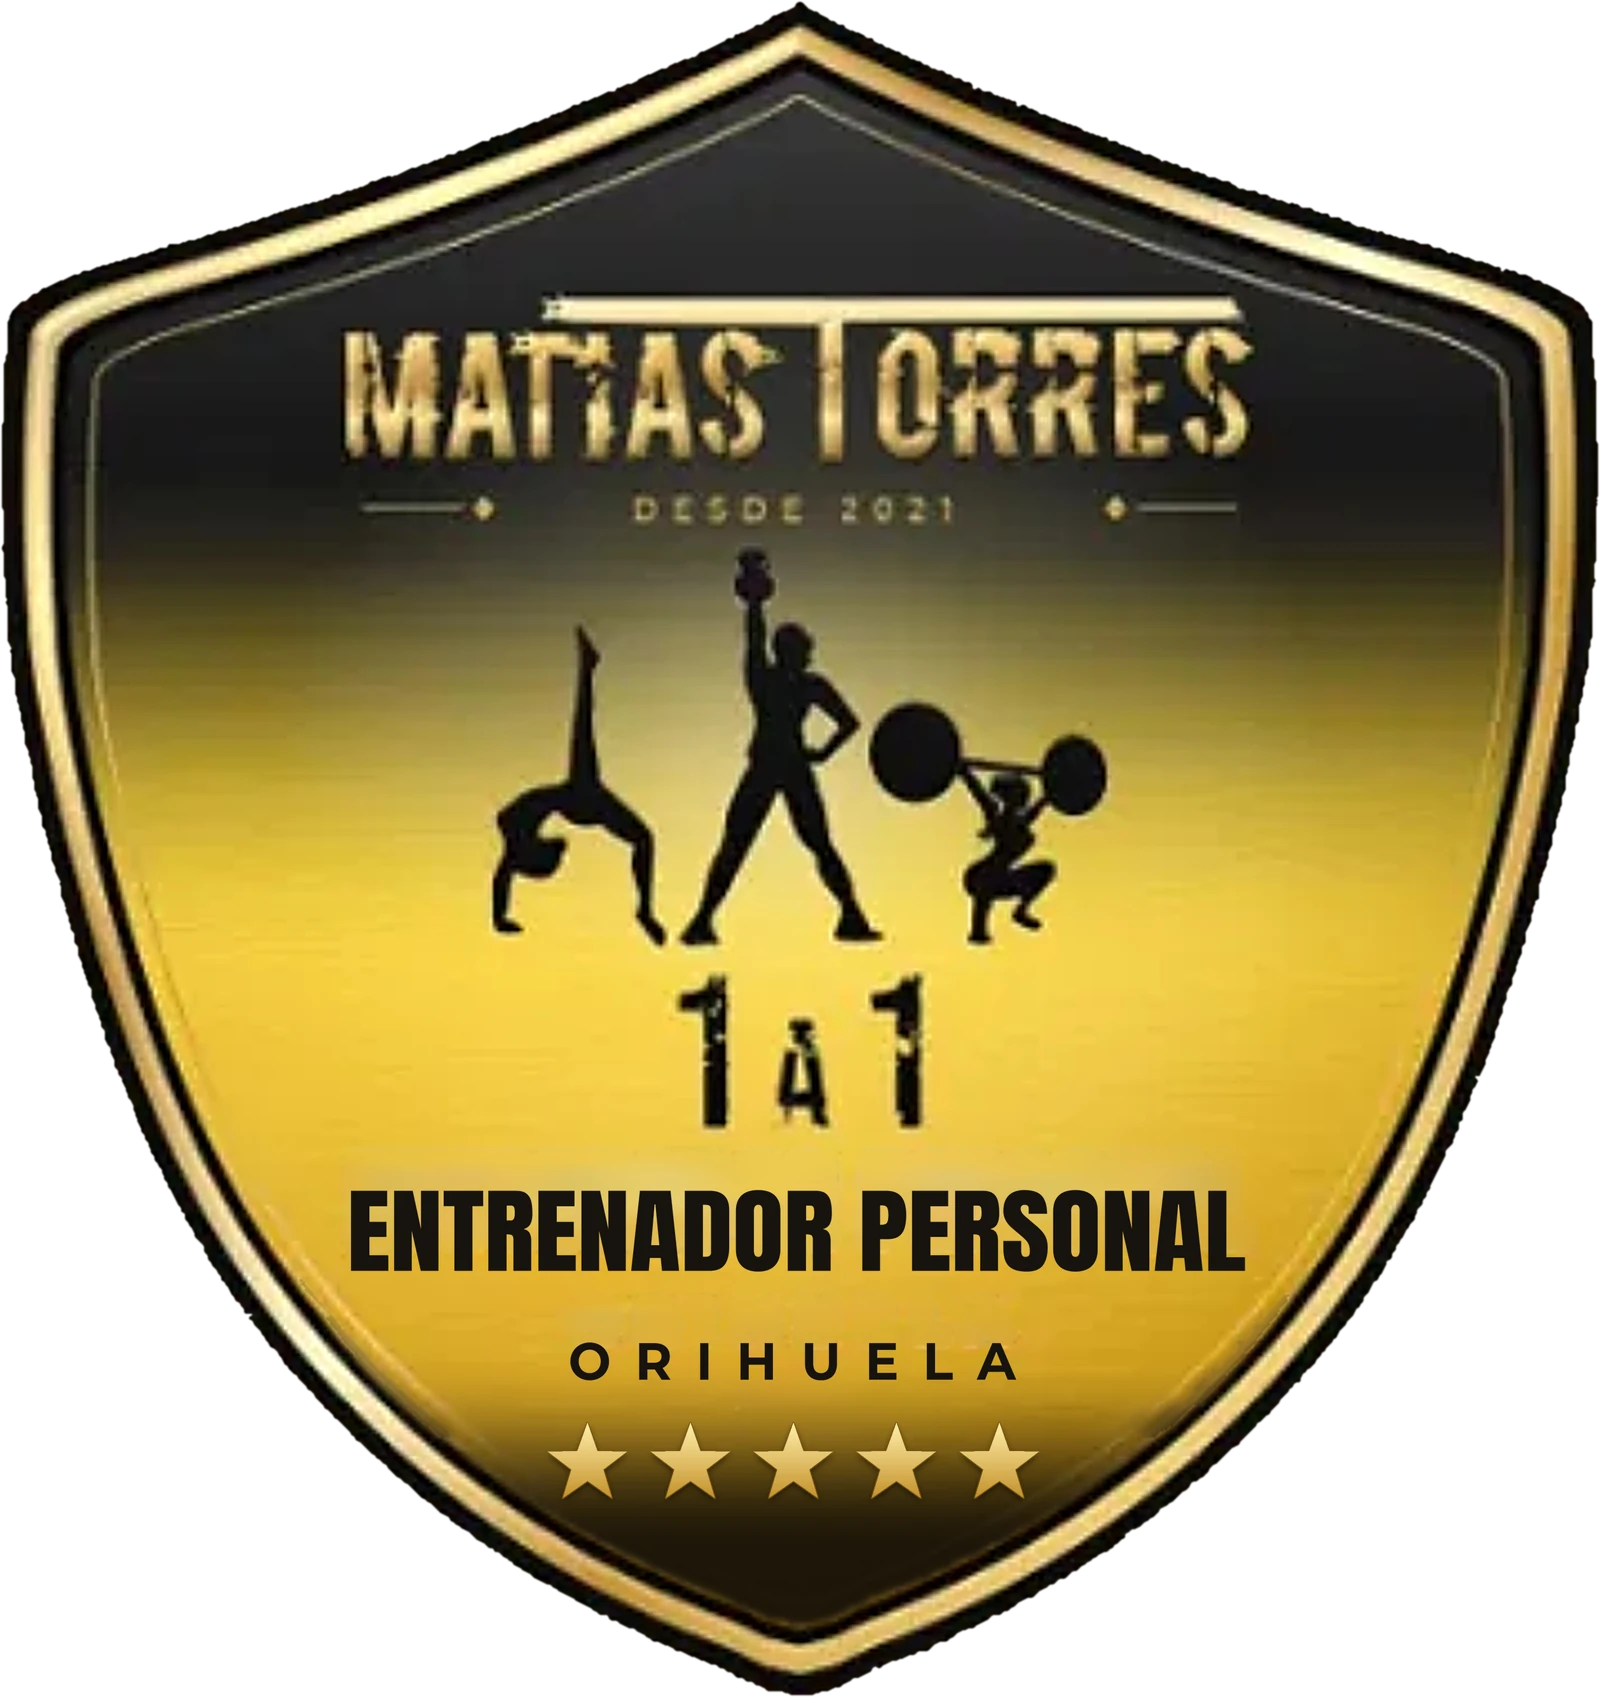
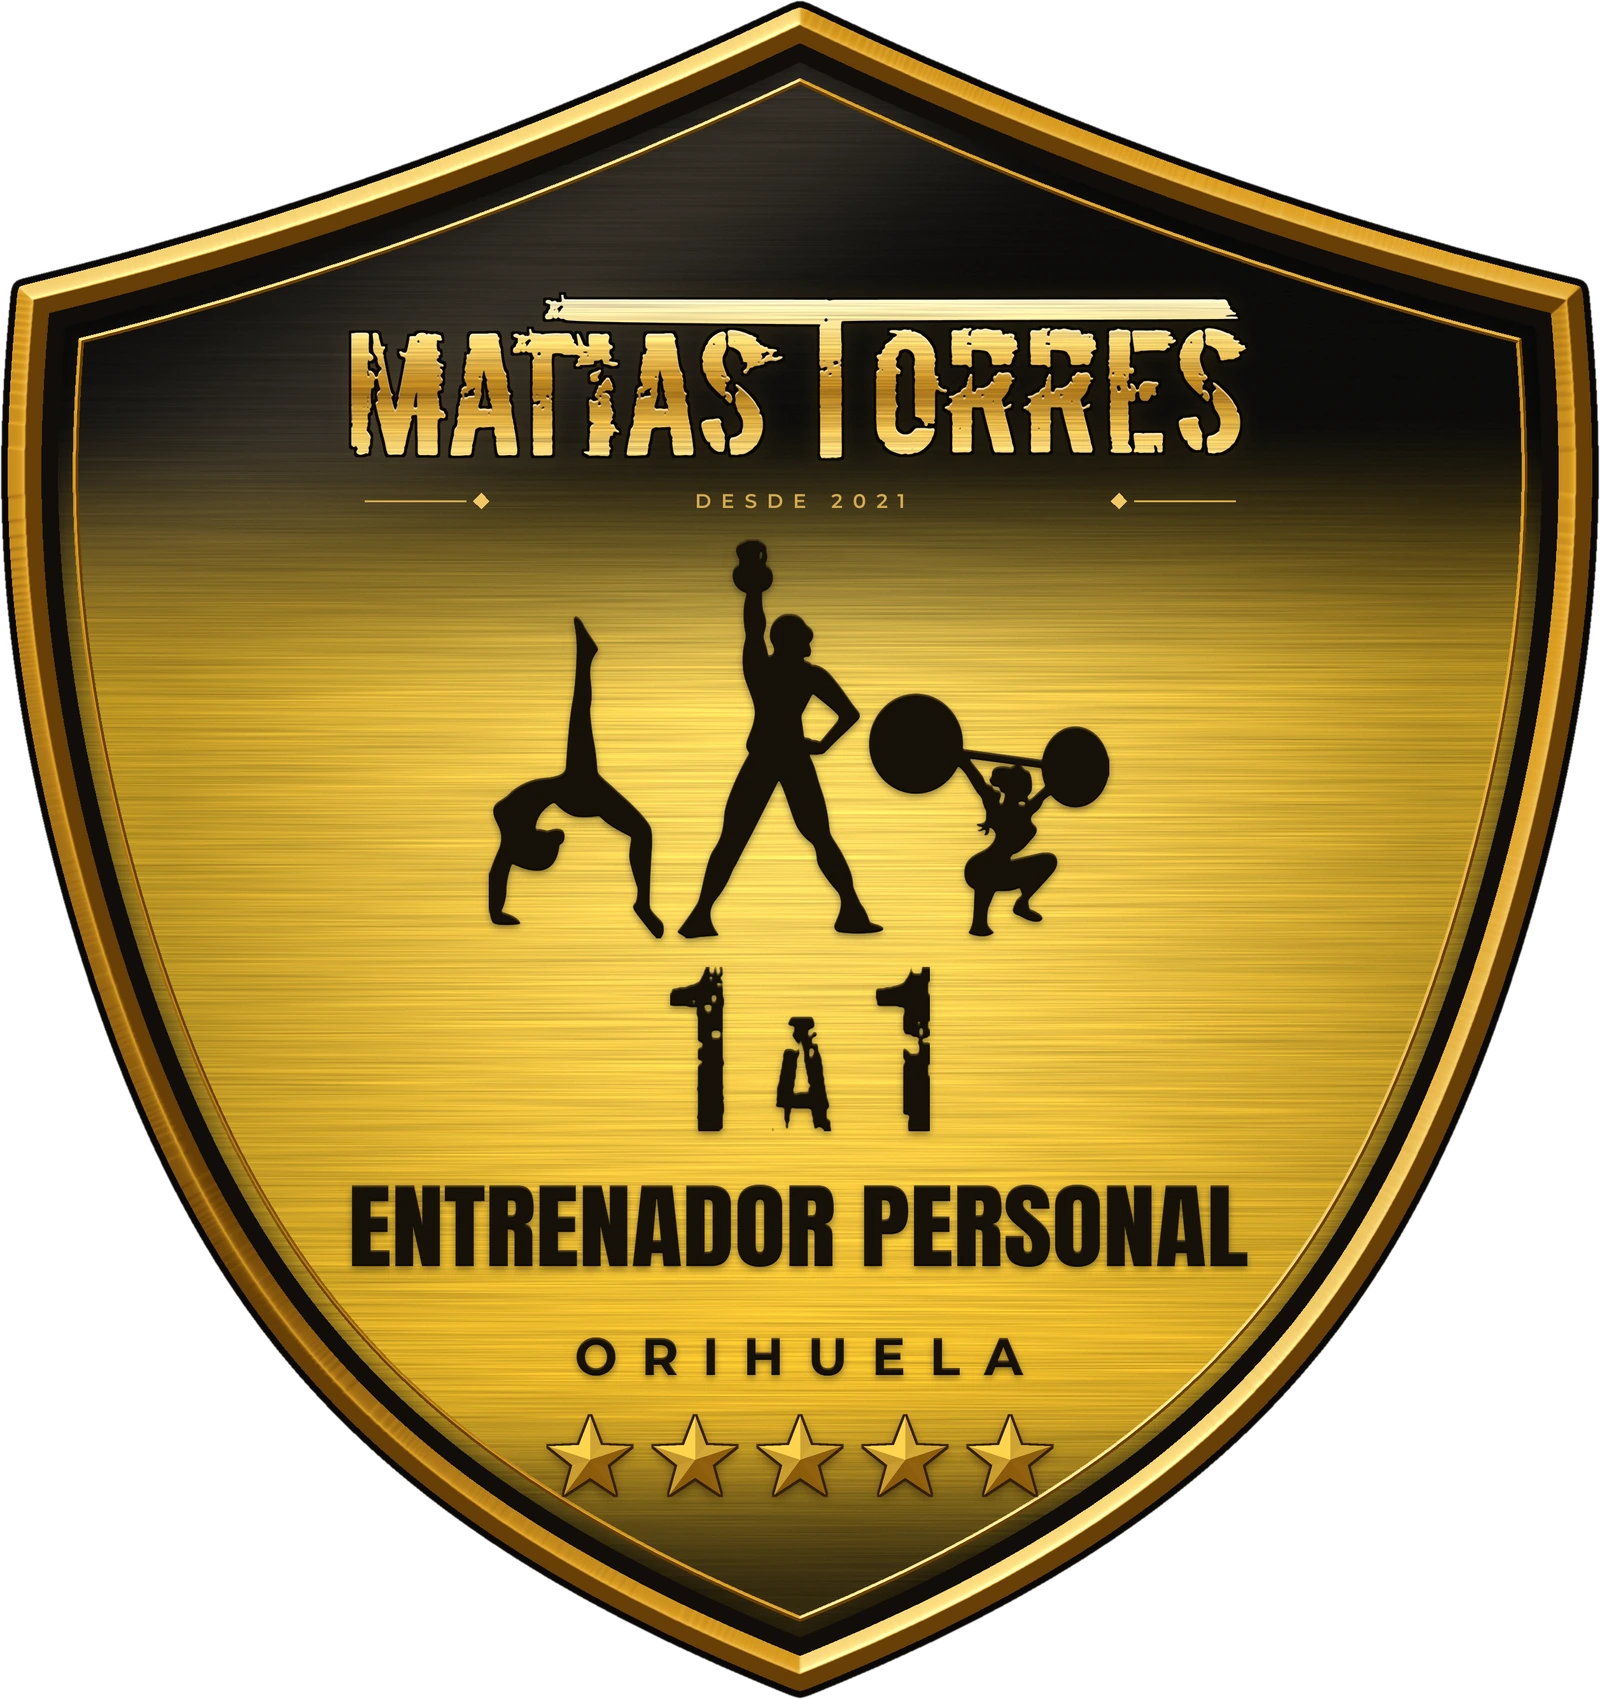
Escudo de estrellas doradas rehecho en alta definición
Claude-Session: https://claude.ai/code/session_01NkzjF1xvkCdHE7QkAFqeRB

diff --git a/index.html b/index.html
@@ -19,7 +19,7 @@
 </script>
 <link rel="preconnect" href="https://fonts.googleapis.com">
 <link rel="preconnect" href="https://fonts.gstatic.com" crossorigin>
-<link rel="preload" as="image" href="fotos/escudo-estrellas-oro-cab.png?v=1">
+<link rel="preload" as="image" href="fotos/escudo-estrellas-oro-cab.png?v=2">
 <link rel="preload" as="image" href="fotos/sala.webp?v=7" fetchpriority="high">
 <link href="https://fonts.googleapis.com/css2?family=Bebas+Neue&family=Oswald:wght@500;600;700&family=Poppins:wght@400;500;600&display=swap" rel="stylesheet">
 <style>
@@ -1231,7 +1231,7 @@ html,body{overflow-x:clip}
 <header>
   <div class="wrap nav">
     <a class="brand" href="#inicio">
-      <img class="brand-esc" src="fotos/escudo-estrellas-oro-cab.png?v=1" width="384" height="407" alt="Escudo de Matías Torres, entrenador personal">
+      <img class="brand-esc" src="fotos/escudo-estrellas-oro-cab.png?v=2" width="512" height="544" alt="Escudo de Matías Torres, entrenador personal">
       <span class="lockup"><b class="esc-name"><img src="fotos/titulos/matias-torres.webp?v=1" width="656" height="120" alt="Matías Torres"></b><small>Entrenamiento personal · Orihuela</small></span>
     </a>
     <button class="burger" id="burger" aria-label="Menú">☰</button>
@@ -1319,7 +1319,7 @@ html,body{overflow-x:clip}
 
   <section class="pb2 pb3" data-mt>
     <div class="wrap">
-    <img class="pb3-shield rv" src="fotos/escudo-estrellas-oro-xl.webp?v=1" width="1600" height="1697" alt="Escudo de Matías Torres, entrenador personal en Orihuela desde 2021" loading="lazy">
+    <img class="pb3-shield rv" src="fotos/escudo-estrellas-oro-xl.webp?v=2" width="1600" height="1699" alt="Escudo de Matías Torres, entrenador personal en Orihuela desde 2021" loading="lazy">
     <p class="pb2-eb rv">¿Te suena?</p>
     <h2 class="pb2-h">
       <span class="pb2-x rv" style="--d:.15s">Pagas la cuota.<i class="dr" style="--d:1.6s" aria-hidden="true"></i></span>
@@ -1502,7 +1502,7 @@ html,body{overflow-x:clip}
     </div>
   </div></section>
   <section class="mtx mtx-cta"><div class="wrap">
-    <img class="mtx-esc" src="fotos/escudo-estrellas-oro.webp?v=1" width="900" height="955" alt="" aria-hidden="true" loading="lazy">
+    <img class="mtx-esc" src="fotos/escudo-estrellas-oro.webp?v=2" width="900" height="955" alt="" aria-hidden="true" loading="lazy">
     <h2 class="mtx-h">El primer paso es una conversación.<span>El resto lo hacemos juntos.</span></h2>
     <a class="mtx-btn" href="#reservar">Reserva tu primera valoración</a>
     <p class="mtx-small">Invitación de la casa · Sin compromiso</p>
@@ -1556,7 +1556,7 @@ html,body{overflow-x:clip}
     <a class="rvx-btn eqx-btn" href="#equipo">Conoce a quien te va a entrenar <span aria-hidden="true">→</span></a>
   </div></section>
   <section class="mtx mtx-cta"><div class="wrap">
-    <img class="mtx-esc" src="fotos/escudo-estrellas-oro.webp?v=1" width="900" height="955" alt="" aria-hidden="true" loading="lazy">
+    <img class="mtx-esc" src="fotos/escudo-estrellas-oro.webp?v=2" width="900" height="955" alt="" aria-hidden="true" loading="lazy">
     <h2 class="mtx-h">¿Hablamos de tu caso?<span>Sin prisas. Sin compromiso. Con un café.</span></h2>
     <a class="mtx-btn" href="#reservar">Reserva tu primera valoración</a>
     <p class="mtx-small">Invitación de la casa</p>
@@ -1674,7 +1674,7 @@ html,body{overflow-x:clip}
   </div></section>
 
   <section class="mtx-cta"><div class="wrap">
-    <img class="mtx-esc" src="fotos/escudo-estrellas-oro.webp?v=1" width="900" height="955" alt="" aria-hidden="true" loading="lazy">
+    <img class="mtx-esc" src="fotos/escudo-estrellas-oro.webp?v=2" width="900" height="955" alt="" aria-hidden="true" loading="lazy">
     <h2 class="mtx-h">Cuéntanos a dónde quieres llegar.<br><span>Del camino nos encargamos nosotros.</span></h2>
     <a class="mtx-btn" href="#reservar">Reserva tu primera valoración</a>
     <p class="mtx-small">Invitación de la casa · Sin compromiso</p>

diff --git a/fotos-origen/escudo-estrellas-oro-gen.py b/fotos-origen/escudo-estrellas-oro-gen.py
@@ -1,0 +1,181 @@
+import math, numpy as np, cv2
+from PIL import Image, ImageDraw, ImageFont, ImageFilter
+from scipy import ndimage as nd
+R='/home/claude/matiastorresentrenamiento/'
+F=3
+crop=Image.open('/home/claude/crop.png').convert('L'); L=np.array(crop).astype(int)
+lab,_=nd.label(L<22); cid=[v for v in lab[40:60,460] if v][0]
+sh=nd.binary_fill_holes(lab==cid)
+ys,xs=np.where(sh); cx=(xs.min()+xs.max())/2
+# silueta simétrica y suave a alta resolución
+Hc,Wc=sh.shape
+m=cv2.resize(sh.astype(np.float32),(Wc*F,Hc*F),interpolation=cv2.INTER_LINEAR)
+m=cv2.GaussianBlur(m,(0,0),F*2.2)
+W,H=m.shape[1],m.shape[0]; C=int(round(cx*F))
+left=m[:,:C]; m=np.concatenate([left,left[:,::-1][:, :W-C]],axis=1)[:, :W]
+S0=(m>0.5)
+# silueta vectorial: arriba curva suave, lateral polinomio, hombros redondeados
+xs_t=np.arange(260,C-10); ys_t=np.array([np.argmax(S0[:,x]) for x in xs_t])
+pt=np.polyfit(xs_t,ys_t,2)
+yr=np.arange(660,H-140); xr=np.array([np.argmax(S0[y]) for y in yr])
+yn=lambda y:(y-1600)/1200
+ps=np.polyfit(yn(yr),xr,5)
+pts=[]
+for x in np.linspace(C,0,400):
+    y=np.polyval(pt,x); pts.append((x,y))
+ys=np.linspace(400,H,2000); xsd=np.polyval(ps,yn(ys))
+side=[(x,y) for x,y in zip(xsd,ys) if x<C]
+ytip=side[-1][1]
+# corta el arco de arriba donde cruza el lateral
+top=[(x,y) for x,y in pts if x>=np.polyval(ps,yn(y))]
+poly=top+[p for p in side if p[1]>=top[-1][1]]
+poly=poly+[(C,ytip+4)]
+full=poly+[(2*C-x,y) for x,y in reversed(poly)]
+SSx=2; im=Image.new('L',(W*SSx,H*SSx),0); ImageDraw.Draw(im).polygon([(x*SSx,y*SSx) for x,y in full],fill=255)
+mm=cv2.GaussianBlur(np.array(im.resize((W,H),Image.LANCZOS)).astype(np.float32)/255,(0,0),9)
+S=mm>0.5
+# antialias del borde
+Sa=cv2.GaussianBlur(S.astype(np.float32),(0,0),0.8)
+dist=nd.distance_transform_edt(S).astype(np.float32)
+u=lambda v:v*F
+gy,gx=np.gradient(cv2.GaussianBlur(dist,(0,0),1.5))
+nn=np.sqrt(gx**2+gy**2)+1e-6; nx,ny=gx/nn,gy/nn  # normal hacia dentro
+Lv=np.array([-0.45,-0.75,0.55]); Lv/=np.linalg.norm(Lv)
+DK=np.array([104,62,6.]); MD=np.array([222,160,36.]); LT=np.array([255,232,150.])
+def bevel(a,b,round_=1.0):
+    t=np.clip((dist-a)/(b-a),0,1); band=(dist>=a)&(dist<=b)
+    dh=math.pi*np.cos(math.pi*t)*round_*3.0
+    N=np.stack([-dh*nx,-dh*ny,np.ones_like(dh)*1.0],-1); N/=np.linalg.norm(N,axis=-1,keepdims=True)
+    d=np.clip((N*Lv).sum(-1),0,1); sp=d**28
+    col=np.where(d[...,None]<0.6, DK+(MD-DK)*(d[...,None]/0.6), MD+(LT-MD)*((d[...,None]-0.6)/0.4))
+    col=col+sp[...,None]*np.array([90,80,60.])
+    return band,np.clip(col,0,255)
+yy,xx=np.mgrid[0:H,0:W].astype(np.float32)
+yu=yy/F
+# ---------- fondo interior
+def sstep(a,b,x):
+    t=np.clip((x-a)/(b-a),0,1); return t*t*(3-2*t)
+gold=np.array([238,186,38.]); goldhi=np.array([255,222,105.]); blk=np.array([13,12,11.])
+g=sstep(255,420,yu)[...,None]
+rad=np.exp(-(((xx/F-cx)/250)**2+((yu-470)/210)**2))[...,None]
+field=gold+(goldhi-gold)*rad*0.9
+hv=np.clip(np.abs(xx/F-cx)/330,0,1)[...,None]; field=field*(1-0.22*hv**2)
+bg=blk*(1-g)+field*g
+# brillo diagonal suave en la zona negra de arriba
+sheen=np.exp(-(((xx/F-cx+120)*0.7+(yu-180))/90)**2)[...,None]*(1-g)
+bg=bg+sheen*np.array([38,34,28.])
+fb=sstep(756,880,yu)[...,None]*0.82
+bg=bg*(1-fb)+blk*fb
+rng=np.random.default_rng(7)
+nz=cv2.GaussianBlur(rng.standard_normal((H,W)).astype(np.float32),(0,0),sigmaX=F*25,sigmaY=0.7)
+nz/=nz.std()+1e-6
+bg=bg*(1+0.05*nz[...,None])+rng.standard_normal((H,W,1)).astype(np.float32)*1.6
+img=np.zeros((H,W,3),np.float32)
+img[:]=bg
+# ---------- anillos: contorno negro, bisel dorado, separación, línea fina
+img[dist<u(30)]=np.array([16,13,9.])
+b1,c1=bevel(u(3.5),u(21)); img[b1]=c1[b1]
+b2,c2=bevel(u(37.5),u(40.5),0.6); img[b2]=c2[b2]
+# sombra interior bajo el aro
+sha=np.clip(1-(dist-u(30))/u(14),0,1)*(dist>=u(30))
+img*=(1-0.45*sha[...,None]) if False else 1
+img[(dist>=u(30))&(dist<u(37.5))]*= (1-0.35*sha[(dist>=u(30))&(dist<u(37.5))])[...,None]
+# contorno exterior negro fino
+img[dist<u(3.5)]=np.array([10,8,6.])
+out=Image.fromarray(np.clip(img,0,255).astype(np.uint8))
+# ---------- utilidades de capa
+def place_mask(src,box,smooth=1.2):
+    x0,y0,x1,y1=[int(u(v)) for v in box]
+    mk=src.resize((x1-x0,y1-y0),Image.LANCZOS)
+    a=np.array(mk).astype(np.float32)/255
+    a=cv2.GaussianBlur(a,(0,0),smooth*F/3+0.6); a=np.clip((a-0.5)*3.2+0.5,0,1)
+    full=np.zeros((H,W),np.float32); full[y0:y1,x0:x1]=a; return full
+def comp(base,alpha,color):
+    if np.ndim(color)==1: color=np.broadcast_to(np.array(color,np.float32),base.shape)
+    return base*(1-alpha[...,None])+color*alpha[...,None]
+def shift(a,dx,dy): return nd.shift(a,(dy,dx),order=1)
+def ink(base,a,deep=False):
+    # sombra proyectada + tinta + bisel claro arriba
+    s=cv2.GaussianBlur(shift(a,0,u(1.6)),(0,0),u(1.8))
+    base=base*(1-0.42*s[...,None])
+    base=comp(base,a,[22,17,10])
+    hi=np.clip(a-shift(a,0,u(0.9)),0,1)*0.55
+    base=comp(base,hi,[120,92,40])
+    lo=np.clip(a-shift(a,0,-u(0.9)),0,1)*0.6
+    return comp(base,lo,[4,3,2])
+def metal_grad(y0,y1,stops):
+    t=np.clip((yy-u(y0))/(u(y1)-u(y0)),0,1)
+    ps=[s[0] for s in stops]; cs=np.array([s[1] for s in stops],np.float32)
+    return np.stack([np.interp(t,ps,cs[:,k]) for k in range(3)],-1)
+arr=np.array(out).astype(np.float32)
+# ---------- MATIAS TORRES en oro metálico
+nm=Image.open(R+'fotos-origen/nombre-escudo.png').split()[-1]
+na=place_mask(nm,(228,196,697,196+469*509/2781),0.8)
+glow=cv2.GaussianBlur(na,(0,0),u(6))*0.18
+arr=comp(arr,glow,[200,150,40])
+ol=np.clip(cv2.dilate(na,np.ones((int(u(1.4))*2+1,)*2,np.uint8)),0,1)
+arr=comp(arr,ol,[8,6,3])
+gm=metal_grad(196,282,[(0,(255,247,205)),(.3,(246,210,110)),(.52,(196,140,36)),(.6,(170,118,28)),(.78,(232,184,72)),(1,(255,226,140))])
+gm=gm*(1+0.06*nz[...,None])
+arr=comp(arr,na,gm)
+hi=np.clip(na-shift(na,0,u(1.0)),0,1)*0.7; arr=comp(arr,hi,[255,250,225])
+# ---------- DESDE 2021 + líneas y rombos
+o=Image.fromarray(np.clip(arr,0,255).astype(np.uint8)); d=ImageDraw.Draw(o)
+mont=lambda w,s: (lambda f:(f.set_variation_by_name(w),f)[1])(ImageFont.truetype(R+'../matiastorresentrenamiento/'[:0]+'/usr/share/fonts/truetype/google-fonts/ofl/montserrat/Montserrat[wght].ttf',s))
+def tracked(img,txt,font,cxu,cyu,track,fill):
+    d=ImageDraw.Draw(img); ws=[font.getlength(c) for c in txt]; tw=sum(ws)+track*(len(txt)-1)
+    x=u(cxu)-tw/2; bb=font.getbbox('D'); y=u(cyu)-(bb[1]+bb[3])/2
+    for c,w in zip(txt,ws): d.text((x,y),c,font=font,fill=fill); x+=w+track
+GL=(214,170,78)
+tracked(o,'DESDE 2021',mont('SemiBold',int(u(10.5))),cx,304,u(5.2),GL)
+for x0,x1 in ((235,288),(cx*2-288,cx*2-235)): d.line([(u(x0),u(304)),(u(x1),u(304))],fill=GL,width=int(u(1.3)))
+for xc in (296,cx*2-296):
+    r=u(4.2); d.polygon([(u(xc),u(304)-r),(u(xc)+r,u(304)),(u(xc),u(304)+r),(u(xc)-r,u(304))],fill=(240,200,100))
+arr=np.array(o).astype(np.float32)
+# ---------- figuras y 1 A 1 (tinta con relieve)
+fm=Image.open(R+'fotos-origen/fig_mask.png')
+fa=place_mask(fm,(300,324,300+325,324+325*746/1159),1.0)
+arr=ink(arr,fa)
+om=Image.open(R+'fotos-origen/1a1_mask.png')
+w1=136; oa=place_mask(om,(cx-w1/2,548,cx+w1/2,548+w1*532/840),1.6)
+arr=ink(arr,oa)
+# ---------- ENTRENADOR PERSONAL y ORIHUELA nítidos
+def text_mask(txt,font,box,track=0):
+    ws=[font.getlength(c) for c in txt]; tw=int(sum(ws)+track*(len(txt)-1))+40
+    t=Image.new('L',(tw,font.size*2),0); dd=ImageDraw.Draw(t); x=20
+    for c,w in zip(txt,ws): dd.text((x,10),c,font=font,fill=255); x+=w+track
+    t=t.crop(t.getbbox()); x0,y0,x1,y1=[int(u(v)) for v in box]
+    t=t.resize((x1-x0,y1-y0),Image.LANCZOS); a=np.zeros((H,W),np.float32); a[y0:y1,x0:x1]=np.array(t)/255; return a
+anton=ImageFont.truetype('/usr/share/fonts/truetype/google-fonts/ofl/anton/Anton-Regular.ttf',600)
+ea=text_mask('ENTRENADOR PERSONAL',anton,(cx-234.5,662,cx+234.5,705)); arr=ink(arr,ea)
+ra=text_mask('ORIHUELA',mont('Bold',400),(cx-117,742,cx+117,762),track=190); arr=ink(arr,ra)
+# ---------- estrellas doradas facetadas con filo
+SS=2; st=Image.new('RGB',(W*SS,H*SS),(0,0,0)); sm=Image.new('L',(W*SS,H*SS),0)
+dst=ImageDraw.Draw(st); dsm=ImageDraw.Draw(sm)
+Rs=u(23); gap=u(55); cy=u(806)
+lang=math.atan2(-0.75,-0.45)
+for i in range(5):
+    x=u(cx)+(i-2)*gap; pts=[]
+    for k in range(10):
+        a=-math.pi/2+k*math.pi/5; r=Rs if k%2==0 else Rs*0.42
+        pts.append((x+r*math.cos(a),cy+r*math.sin(a)))
+    dsm.polygon([(px*SS,py*SS) for px,py in pts],fill=255)
+    for k in range(10):
+        p1,p2=pts[k],pts[(k+1)%10]
+        mx,my=(p1[0]+p2[0])/2-x,(p1[1]+p2[1])/2-cy
+        # cara a la izquierda o derecha de la arista radial
+        ang=math.atan2(my,mx); side=1 if k%2==0 else -1
+        lit=0.5+0.5*math.cos(ang+side*0.5-lang)
+        SD=np.array([120,70,0.]);SL=np.array([255,214,80.]);c=SD+(SL-SD)*(0.12+0.88*lit**1.3)
+        dst.polygon([(x*SS,cy*SS),(p1[0]*SS,p1[1]*SS),(p2[0]*SS,p2[1]*SS)],fill=tuple(int(v) for v in c))
+st=st.resize((W,H),Image.LANCZOS); sm=sm.resize((W,H),Image.LANCZOS)
+sa=np.array(sm).astype(np.float32)/255
+s=cv2.GaussianBlur(shift(sa,0,u(2.2)),(0,0),u(3)); arr=arr*(1-0.65*s[...,None])
+glow=cv2.GaussianBlur(sa,(0,0),u(7))*0.22; arr=comp(arr,glow,[230,170,40])
+ol=cv2.dilate(sa,np.ones((int(u(1.1))*2+1,)*2,np.uint8)); arr=comp(arr,ol,[52,32,4])
+arr=comp(arr,sa,np.array(st).astype(np.float32))
+# ---------- salida con transparencia
+alpha=(Sa*255).astype(np.uint8)
+res=Image.fromarray(np.clip(arr,0,255).astype(np.uint8)).convert('RGBA'); res.putalpha(Image.fromarray(alpha))
+res=res.crop(res.getbbox()); res.save('/home/claude/escudo-hd.png'); print(res.size)
+bg=Image.new('RGB',res.size,(8,8,8)); bg.paste(res,(0,0),res); bg.save('/home/claude/escudo-hd-negro.jpg',quality=95)
